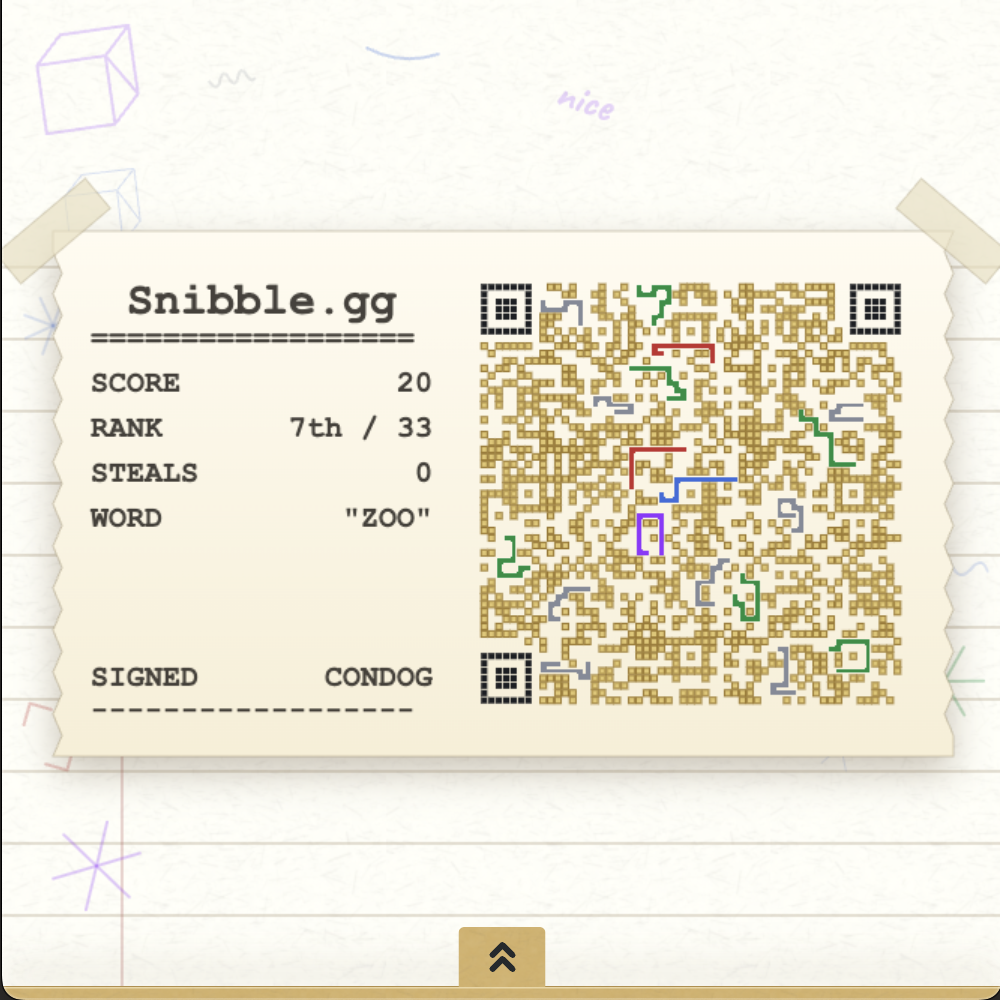
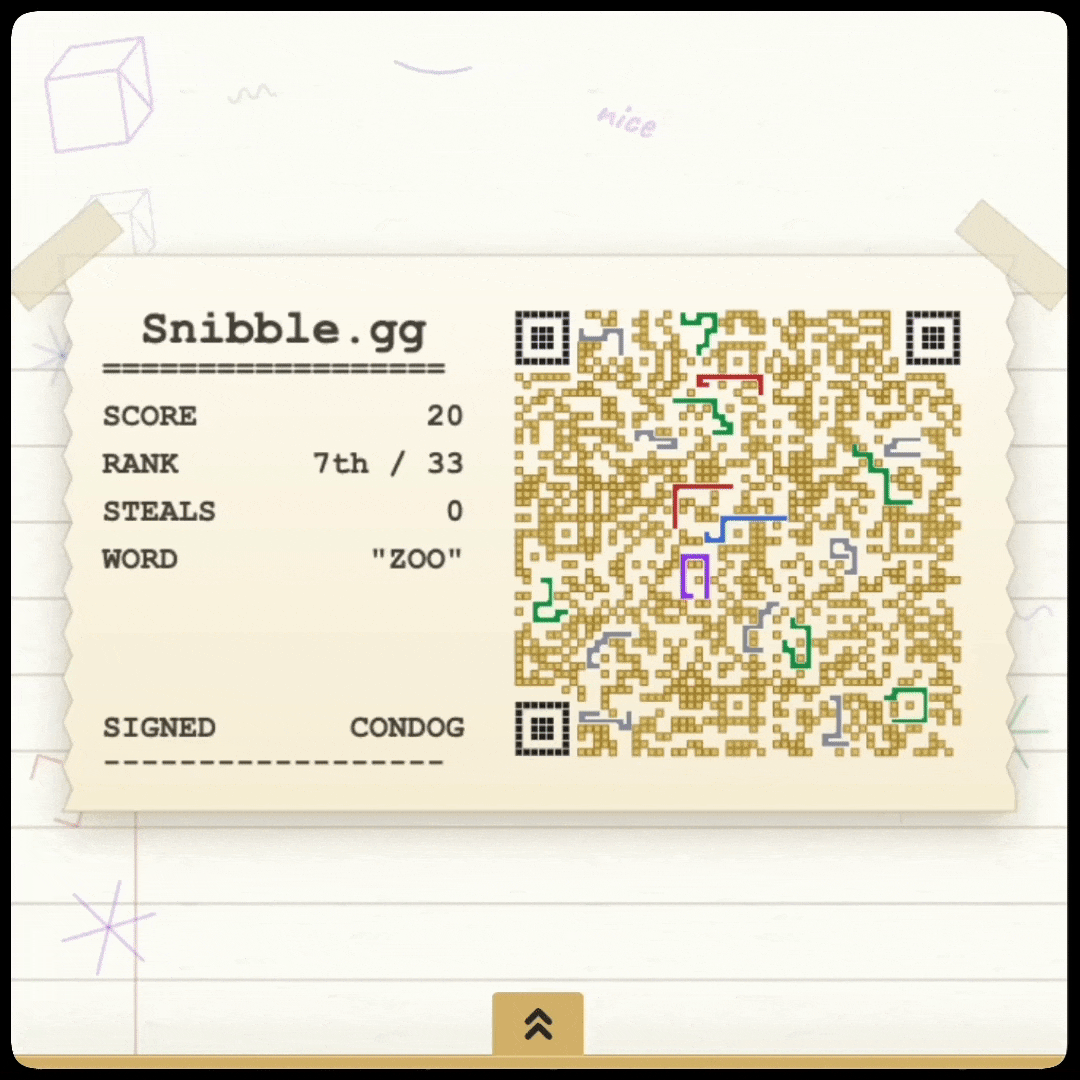
start on QR replays

diff --git a/README.md b/README.md
@@ -103,7 +103,12 @@ Why did I implement this? Becuase the game carries heavy processing overhead for
 
 ## QR Code Replays
 
-![Scan this to open an actual replay](./media/replay-qr-code.png)
+> [!NOTE]
+> Here is the URL to the exact replay from the gif below: [https://snibble.gg/r/eJxjYGY0VT_BwMIwkVFZQIGPja3x6YM5zClfHRig4FUCAwsDA9NCBgZWRwYG9kIGBs6FDCICKgICCoIKAsogUqGBQUBA0KTFvE1dRUnISKlRUkxIUdSojVFYQVBBRMO4RaRFoElAwUlEQUHQ0VFIUMBByEFFqQUATK4Vgw](https://snibble.gg/r/eJxjYGY0VT_BwMIwkVFZQIGPja3x6YM5zClfHRig4FUCAwsDA9NCBgZWRwYG9kIGBs6FDCICKgICCoIKAsogUqGBQUBA0KTFvE1dRUnISKlRUkxIUdSojVFYQVBBRMO4RaRFoElAwUlEQUHQ0VFIUMBByEFFqQUATK4Vgw)
+
+| Replay with camera subject switching | Scan this QR code to watch the EXACT replay from the gif                                        |
+| ------------------------------------ | ----------------------------------------------------------------------------------------------- |
+| ![](./media/snibble-replays.png)     | ![Scan this to open the exact replay this gif was captured from](./media/snibble-qr-replay.png) |
 
 Every single played game can be replayed, and the replays are so tiny that they fit in a QR code. There is no server, no database, no url-shortener. This is the entire game state required to replay the exact game. The replay can be watched and scrubbed like a video, and the camera can be dynamically changed to follow any player. You can even play against your own "ghost" from a previous game.
 
